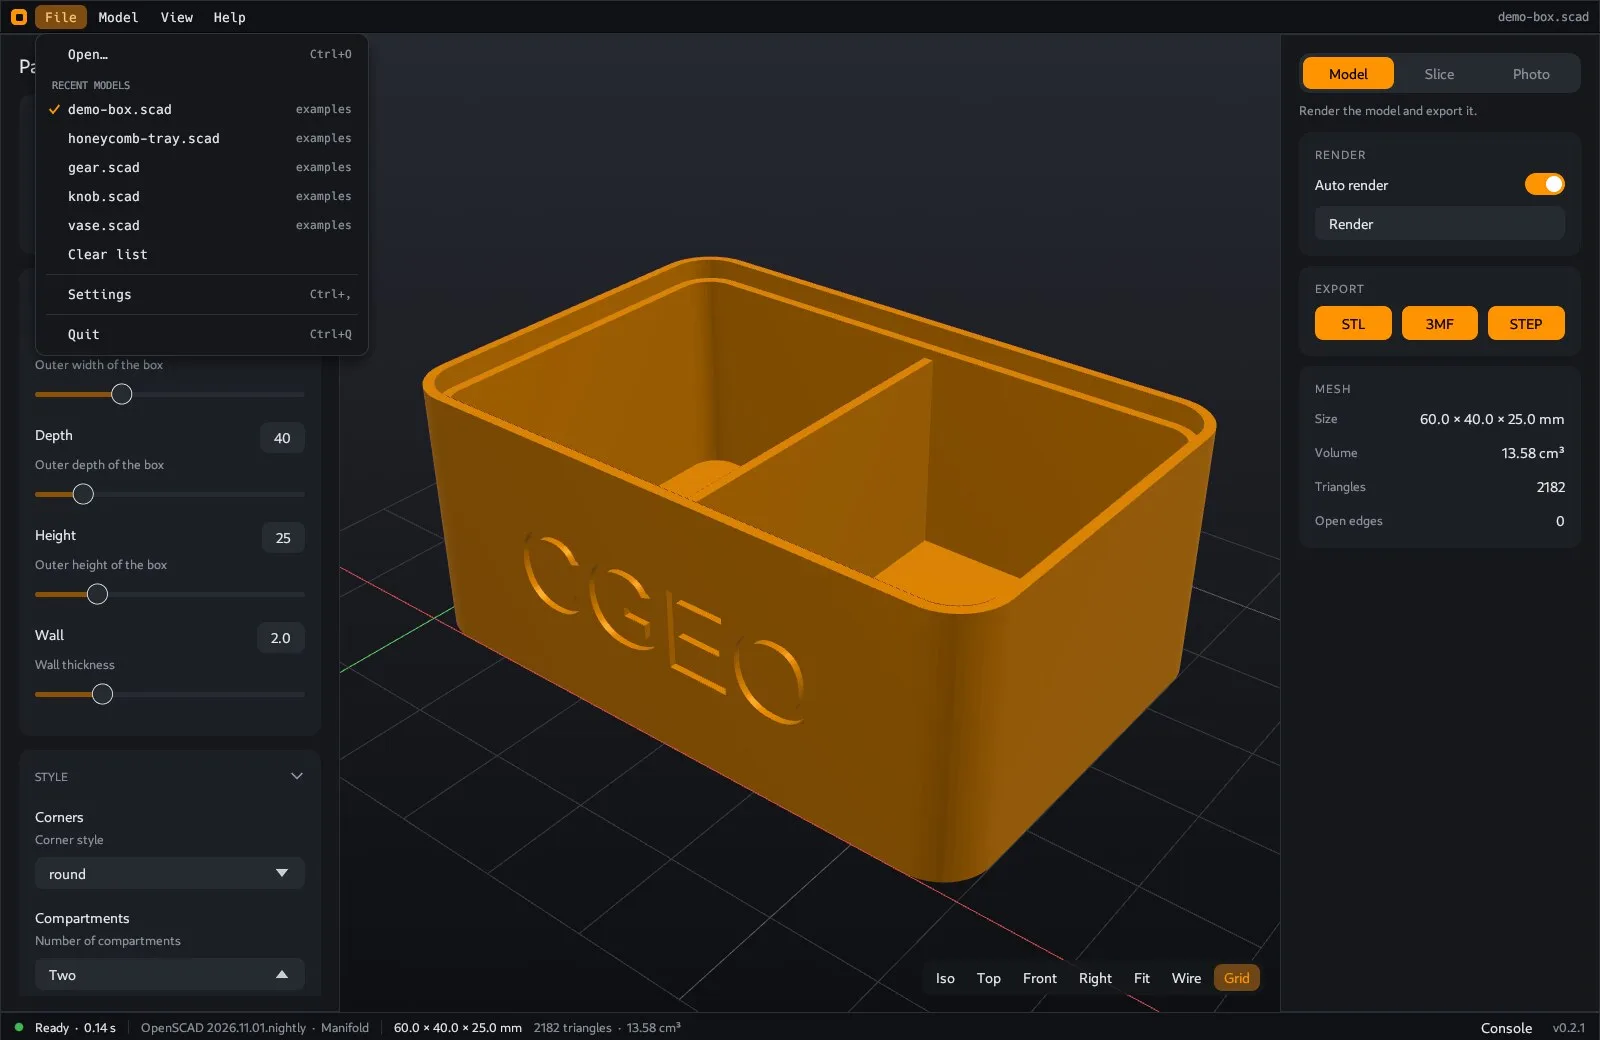
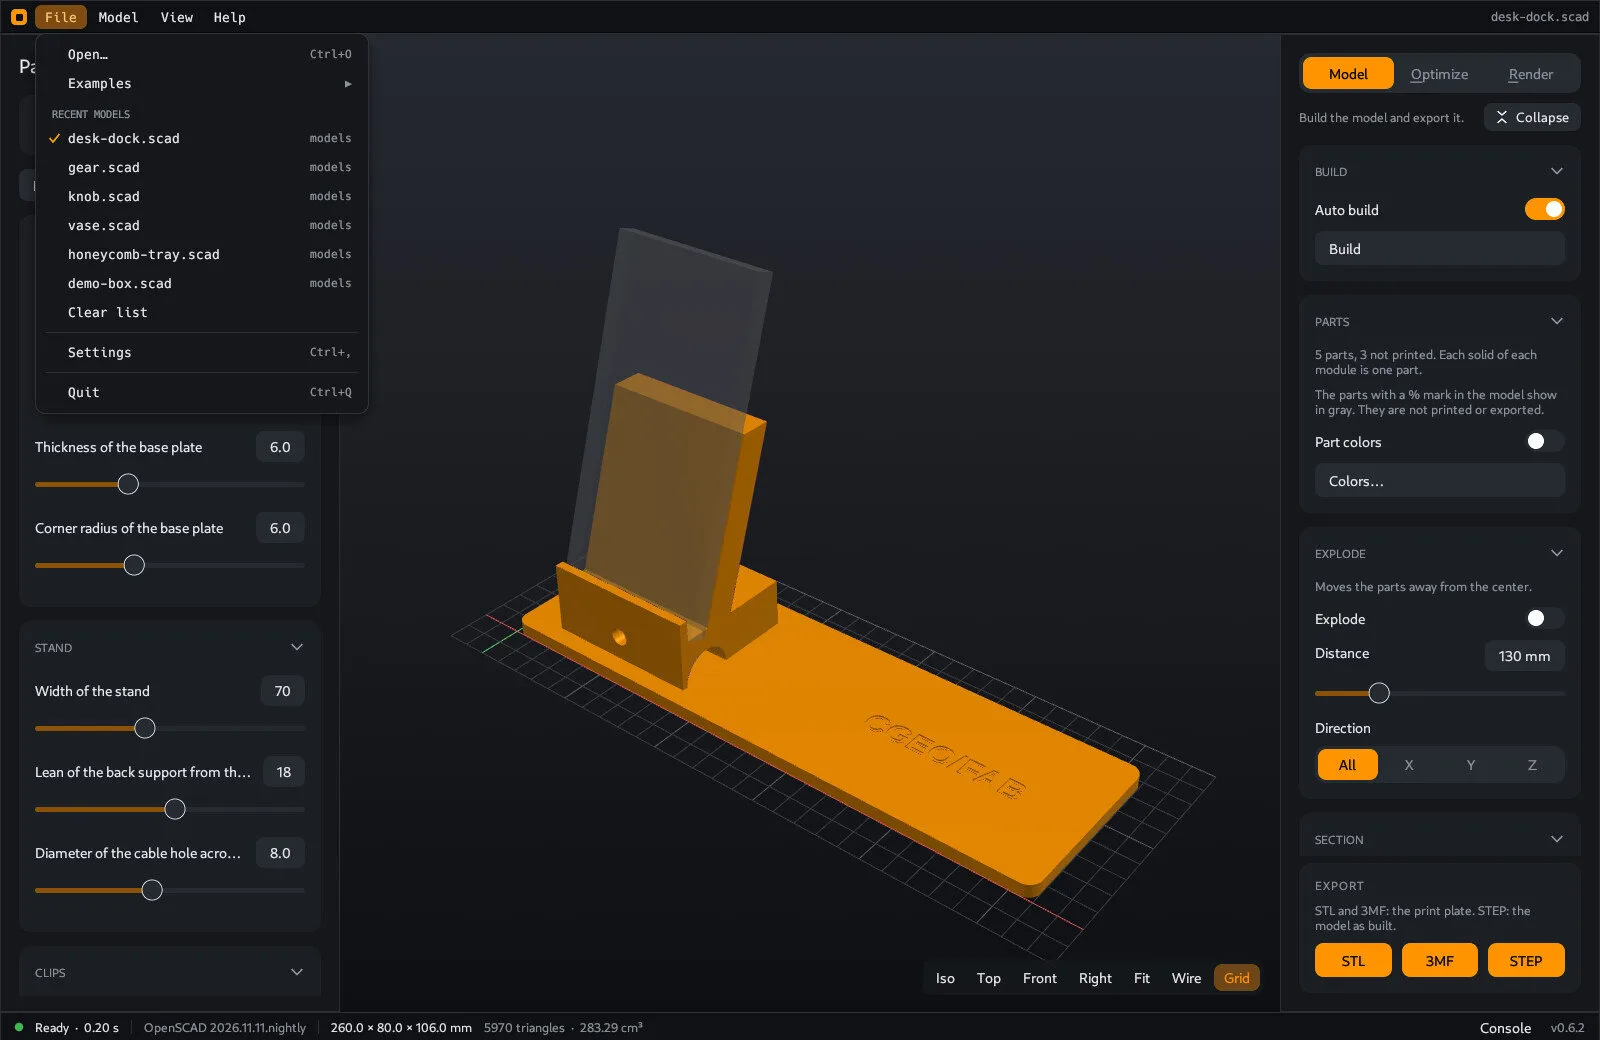
Website assets: screenshots of 0.7.0 and new demo data
New full-size screenshots (1600 x 1040) of the app with the Model, Optimize
and Render tabs: Optimize (desk dock plate with the split and the fixes),
print fixes, layers, render, model, menu, sets, export and agent. The site
no longer takes images from assets/tour/.

website-assets.py builds and slices the demo meshes with --as-built and
stores the slice time. The meshes did not change.

diff --git a/scripts/website-assets.py b/scripts/website-assets.py
@@ -2,9 +2,10 @@
 """Makes the generated files of the website in extras/website/public/assets/.
 
 - mesh/<model>/<variant>.bin and mesh/models.json: real meshes of the example
-  models. The app CLI renders them, so the sizes, times and estimates on the
-  site are measured values.
-- img/: site images from extras/website/images/ and assets/tour/, as WebP.
+  models. The app CLI builds and slices them as built (`--as-built`, without
+  the print preparation of the Optimize tab), so the sizes, times and
+  estimates on the site are measured values.
+- img/: site images from extras/website/images/, as WebP.
 
 Needs a release build, OpenSCAD and ImageMagick.
 Usage: scripts/website-assets.py [--meshes-only | --images-only]
@@ -68,12 +69,14 @@ MODELS = {
 
 IMAGES = {
     "extras/website/images/screen-model.jpg": ("screen-model", 1600),
-    "extras/website/images/screen-slice.jpg": ("screen-slice", 1600),
-    "extras/website/images/screen-photo.jpg": ("screen-photo", 1600),
+    "extras/website/images/screen-optimize.jpg": ("screen-optimize", 1600),
+    "extras/website/images/screen-fixes.jpg": ("screen-fixes", 1600),
+    "extras/website/images/screen-layers.jpg": ("screen-layers", 1600),
+    "extras/website/images/screen-render.jpg": ("screen-render", 1600),
     "extras/website/images/screen-menu.jpg": ("screen-menu", 1600),
-    "assets/tour/3-sets.jpg": ("screen-sets", 1120),
-    "assets/tour/4-export.jpg": ("screen-export", 1120),
-    "assets/tour/7-agent.jpg": ("screen-agent", 1120),
+    "extras/website/images/screen-sets.jpg": ("screen-sets", 1600),
+    "extras/website/images/screen-export.jpg": ("screen-export", 1600),
+    "extras/website/images/screen-agent.jpg": ("screen-agent", 1600),
     "extras/website/images/render-gear.jpg": ("render-gear", 1000),
     "extras/website/images/render-honeycomb.jpg": ("render-honeycomb", 1000),
     "extras/website/images/render-knob.jpg": ("render-knob", 1000),
@@ -160,12 +163,12 @@ def make_meshes(work):
             name = variant_name(values)
             args = defines(names, values)
             stl = work / "out.stl"
-            log = run("export", model["file"], "-o", str(stl), *args)
+            log = run("export", model["file"], "-o", str(stl), "--as-built", *args)
             seconds = float(re.search(r"in ([\d.]+) s", log).group(1))
             verts, index = read_stl(stl)
             low, high, volume, open_edges = measure(verts, index)
             write_mesh(folder / f"{name}.bin", verts, index, low, high)
-            log = run("slice", model["file"], *args, "--layer-height", "0.2", "--infill", "20", "--walls", "3")
+            log = run("slice", model["file"], "--as-built", *args, "--layer-height", "0.2", "--infill", "20", "--walls", "3")
             variants[name] = {
                 "seconds": seconds,
                 "triangles": len(index) // 3,
@@ -176,6 +179,7 @@ def make_meshes(work):
                 "filament_m": float(re.search(r"filament\s+([\d.]+) m", log).group(1)),
                 "grams": float(re.search(r", ([\d.]+) g", log).group(1)),
                 "print_time": re.search(r"print time\s+(.+?) \(rough\)", log).group(1),
+                "slice_ms": int(re.search(r"sliced in\s+(\d+) ms", log).group(1)),
             }
             print(slug, name, variants[name]["triangles"], "triangles", seconds, "s", flush=True)
         manifest[slug] = {

diff --git a/extras/website/README.md b/extras/website/README.md
@@ -14,11 +14,11 @@ The look follows the Portfolio website (`portfolio/extras/website`). The colors 
 | `public/analytics.js` | Consent box, consent record and PostHog. The key comes from `deploy.sh` |
 | `test/analytics.test.js` | Consent and allowlist tests |
 | `public/script.js` | OS detection, download links, scroll reveal, screenshot tabs, lightbox |
-| `public/viewer.js` | WebGL2 viewer: solid, wire and slice modes, with smooth shading |
+| `public/viewer.js` | WebGL2 viewer: solid, wire and slice modes, with smooth shading. The page calls the slice mode Layers |
 | `public/demo.js` | Hero loop and the agent demo |
 | `public/assets/mesh/` | Generated. Example meshes and `models.json` |
-| `images/` | Full-size screenshots and renders. Source of `public/assets/img/`. Not deployed |
-| `public/assets/img/` | Generated. WebP copies of `images/` and of some tour screenshots in `../../assets/tour/` |
+| `images/` | Full-size screenshots (1600 × 1040) and renders. Source of `public/assets/img/`. Not deployed |
+| `public/assets/img/` | Generated. WebP copies of `images/` |
 | `public/privacy/index.html` | Privacy Notice for the app and the site |
 | `public/llms.txt`, `robots.txt`, `sitemap.xml` | Files for crawlers and LLMs |
 | `public/assets/fonts/` | Self-hosted fonts (Latin subset) with their OFL licenses |
@@ -27,7 +27,7 @@ The look follows the Portfolio website (`portfolio/extras/website`). The colors 
 
 ## Demo data
 
-`scripts/website-assets.py` runs the app CLI on the example models. It writes the meshes and the measured values: render time, size, volume, open edges, layers, filament, weight and print time. It also writes the images.
+`scripts/website-assets.py` runs the app CLI on the example models, as built (`--as-built`). It writes the meshes and the measured values: build time, size, volume, open edges, layers, filament, weight, print time and slice time. It also writes the images.
 
 ```bash
 cargo build --release
@@ -37,6 +37,10 @@ scripts/website-assets.py
 Change the prebuilt parameter values in `MODELS` in that script. The prompts of the agent demo are in `PROMPTS` in `public/demo.js`. Each prompt must name values that `MODELS` has.
 
 The chat text is scripted. The tool names and the numbers are real. The page draws the layers on the model surface, and the outline of the current layer. The app draws walls, infill and skin.
+
+## Screenshots
+
+The files `images/screen-*.jpg` are screenshots of the app at 1600 × 1040, in the dark theme. Make them on a private display with the `gui-test` skill. The Optimize tab shots use `examples/desk-dock.scad` with all print fixes on, Auto orientation for the clips and the split that CoCAD proposes. After a change, run `scripts/website-assets.py --images-only`.
 
 ## Behavior
 
